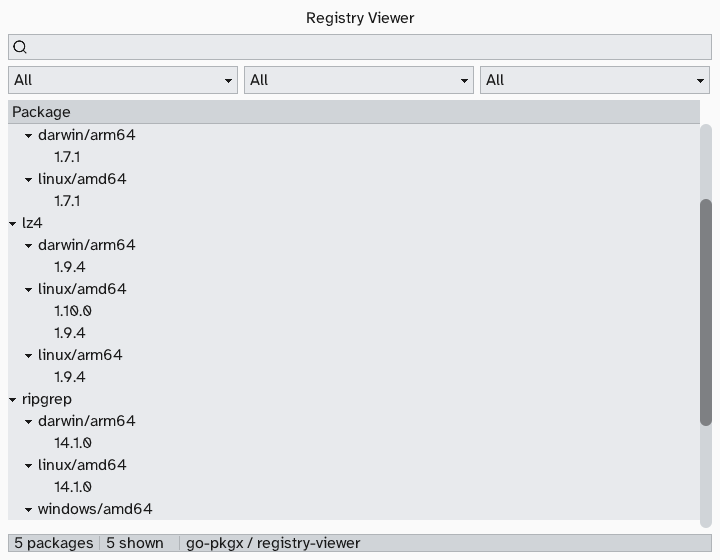
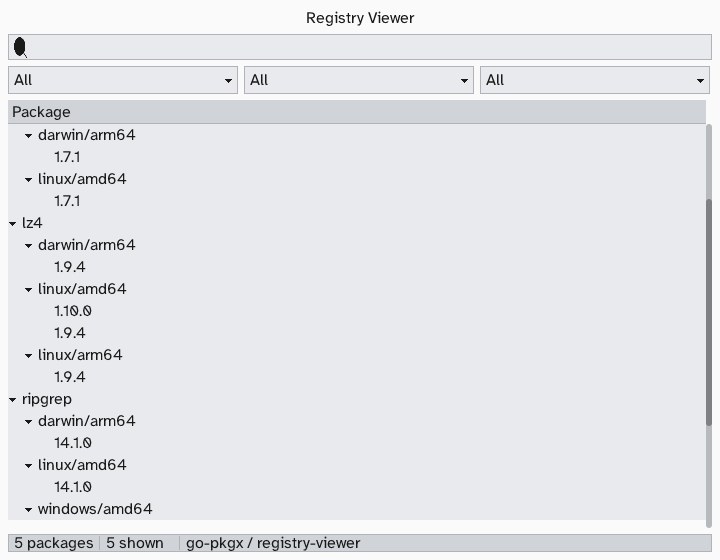
Port the magnifier off the archived go-iconoir
go-iconoir is archived; go-icons/iconoir ships the pack as SVG source and
toolkit.SVGIcon rasterises it, caching per (document, ink). The search entry's
prefix drawer resolves once at package level instead of per draw.

The pixel test keeps naming search itself and rasterising it independently,
rather than reusing the scene's drawer. That distinction is not cosmetic: I first
pointed the reference at the scene's own variable, and a control run with the
wrong glyph passed — the test was comparing the scene with itself. Named
independently, that control fails at a specific pixel, as it must.

Changed region(s): [[0.9472, 0.1821, 1.0, 0.9411], [0.0, 0.0607, 0.0306, 0.0911]]

diff --git a/scene_test.go b/scene_test.go
@@ -25,7 +25,7 @@ import (
 	"reflect"
 	"testing"
 
-	"github.com/go-iconoir/iconoir"
+	"github.com/go-icons/iconoir"
 	"github.com/go-widgets/painter"
 	"github.com/go-widgets/toolkit"
 )
@@ -104,11 +104,11 @@ func TestNewStateFallsBackOnEmptyArray(t *testing.T) {
 
 // TestTitleAndMagnifierChrome asserts the scene's new chrome: a title Label
 // reading "Registry Viewer", and a real magnifier Icon on the SearchEntry that
-// replaces the toolkit's "?" stand-in. The magnifier is go-iconoir's "search"
+// replaces the toolkit's "?" stand-in. The magnifier is Iconoir's "search"
 // glyph (no hand-drawn icon): the test renders the scene, then renders that same
-// iconoir glyph over the entry's Surface fill into a reference buffer, and
+// glyph over the entry's Surface fill into a reference buffer, and
 // asserts the SearchEntry's prefix slot is byte-identical to it — proving the
-// pixels come from iconoir, not a hand-rolled loupe or the "?" stand-in.
+// pixels come from the icon pack, not a hand-rolled loupe or the "?" stand-in.
 func TestTitleAndMagnifierChrome(t *testing.T) {
 	s := newState(surfaceW, surfaceH, nil)
 	// A label's text is an observable rather than a field, so this reads what
@@ -129,14 +129,19 @@ func TestTitleAndMagnifierChrome(t *testing.T) {
 	iconR := toolkit.Rect{X: sb.X + toolkit.SearchEntryPadX, Y: sb.Y, W: toolkit.SearchEntryIconW, H: sb.H}
 	ink := s.theme.OnSurface
 
-	// Reference: iconoir's own "search" glyph blitted over the entry's Surface
-	// fill (the same base the SearchEntry draws the icon over), so alpha blending
-	// matches pixel-for-pixel.
+	// Reference: the pack's "search" glyph, named HERE and rasterised
+	// independently of whatever the scene installed, blitted over the entry's
+	// Surface fill (the same base the SearchEntry draws over) so alpha blending
+	// matches pixel-for-pixel. Building it from the scene's own drawer instead
+	// would compare the scene with itself and pass for any icon at all — which
+	// it did, until a control run with the wrong glyph caught it.
+	doc := iconoir.Icon("search")
+	if doc == "" {
+		t.Fatal("the icon pack has no \"search\" icon")
+	}
 	ref := newSurface()
 	fillBG(ref, surfaceW, surfaceH, s.theme.Surface)
-	if !iconoir.Draw(painter.NewPixelPainter(ref, surfaceW, surfaceH), iconR, "search", ink) {
-		t.Fatal("iconoir has no \"search\" icon")
-	}
+	toolkit.SVGIcon(doc)(painter.NewPixelPainter(ref, surfaceW, surfaceH), iconR, ink)
 
 	// Compare the slot interior — inset one pixel top/bottom so the entry's own
 	// border chrome (the field outline at y=r.Y and y=r.Y+r.H-1) is skipped; the
@@ -147,7 +152,7 @@ func TestTitleAndMagnifierChrome(t *testing.T) {
 		for x := iconR.X; x < iconR.X+iconR.W; x++ {
 			got, want := px(surf, x, y), px(ref, x, y)
 			if !eqColor(got, want) {
-				t.Fatalf("icon slot pixel (%d,%d) = %+v, want iconoir search %+v", x, y, got, want)
+				t.Fatalf("icon slot pixel (%d,%d) = %+v, want the pack's search glyph %+v", x, y, got, want)
 			}
 			if eqColor(got, ink) {
 				inked++
@@ -155,7 +160,7 @@ func TestTitleAndMagnifierChrome(t *testing.T) {
 		}
 	}
 	if inked < 8 {
-		t.Fatalf("icon slot shows only %d full-ink pixels; iconoir search glyph not drawn", inked)
+		t.Fatalf("icon slot shows only %d full-ink pixels; the search glyph was not drawn", inked)
 	}
 }
 

diff --git a/scene.go b/scene.go
@@ -29,7 +29,7 @@ import (
 	"strconv"
 	"strings"
 
-	"github.com/go-iconoir/iconoir"
+	"github.com/go-icons/iconoir"
 	"github.com/go-widgets/mvvm"
 	"github.com/go-widgets/mvvmtk"
 	"github.com/go-widgets/painter"
@@ -207,12 +207,10 @@ func newState(w, _ int, data []byte) *state {
 
 	s.search = toolkit.NewSearchEntry("")
 	// A real magnifier in the left prefix slot replaces the toolkit's "?"
-	// bitmap-font stand-in. The glyph is go-iconoir's "search" icon (a stroked,
-	// anti-aliased vector), so no icon is hand-drawn: the closure hands the
-	// prefix slot rect + the theme's OnSurface ink straight to iconoir.Draw.
-	s.search.Icon = func(p painter.Painter, r toolkit.Rect, ink toolkit.RGBA) {
-		iconoir.Draw(p, r, "search", ink)
-	}
+	// bitmap-font stand-in. The glyph is Iconoir's "search" icon (a stroked,
+	// anti-aliased vector), so no icon is hand-drawn: go-icons ships the pack as
+	// SVG source and toolkit.SVGIcon rasterises it, caching per (document, ink).
+	s.search.Icon = searchIcon
 
 	s.osDrop = toolkit.NewDropDown(append([]string{"All"}, s.osDomain...), 0)
 	s.archDrop = toolkit.NewDropDown(append([]string{"All"}, s.archDomain...), 0)
@@ -270,6 +268,9 @@ func newState(w, _ int, data []byte) *state {
 
 // dropdowns returns the three filter combos in a fixed order, so the
 // popover draw + click routing can iterate them uniformly.
+// searchIcon draws Iconoir's magnifier, resolved once rather than per frame.
+var searchIcon = toolkit.SVGIcon(iconoir.Icon("search"))
+
 func (s *state) dropdowns() []*toolkit.DropDown {
 	return []*toolkit.DropDown{s.osDrop, s.archDrop, s.verDrop}
 }
